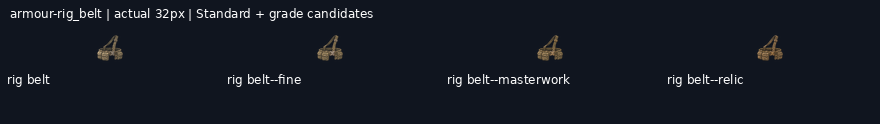
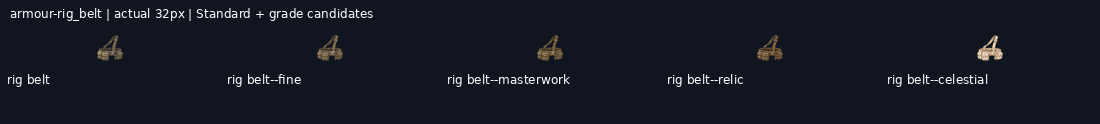
art: draw armour-rig_belt--celestial grade candidate

diff --git a/art/_archive/gear/2026-11-19-kept-blade-grades/HANDOFF.md b/art/_archive/gear/2026-11-19-kept-blade-grades/HANDOFF.md
@@ -1,6 +1,6 @@
 # Gear grade candidates
 
-**164/208 grade candidates delivered** on `art/2026-11-19-kept-blade-grades`. Shared mailbox: https://github.com/leonpentastorm/Project-Heaven-Cry/issues/3 . See claim.json for this lane’s current Standards. Released overlapping blades reuse12 peer candidates, with3 local alternatives archived.
+**165/208 grade candidates delivered** on `art/2026-11-19-kept-blade-grades`. Shared mailbox: https://github.com/leonpentastorm/Project-Heaven-Cry/issues/3 . See claim.json for this lane’s current Standards. Released overlapping blades reuse12 peer candidates, with3 local alternatives archived.
 
 Leon requested continuous candidate production; proof approval is not fabricated. All candidates remain review-candidate, production_approved:false, implementation_ready:false, with outline.review_required:true. Exact outline is measured, never asserted unless the masks match. Per-image registration is uniform scaling/translation only, without warp, silhouette masks, filled pixels or code-drawn substitutes. The generated native remains untouched.
 
@@ -10,12 +10,12 @@ Tomorrow: fetch this branch and develop safely, read the latest issue 3 comments
 
 Peer audit: [coordination/peer-audit-2026-11-19.md](coordination/peer-audit-2026-11-19.md). Peer58 masters/232 exports and12 canonical imports are integrated with versioned alpha<8 cleanup; originals are retained. See coordination/peer-import-v2/manifest.json and post-catalog VALIDATION.json (strict margins pass, solid alpha unchanged). Peer quota resets20 November2026 at09:45:39 Bangkok time; this does not establish this session’s quota.
 
-Remaining: weapon-ork_machete--masterwork, weapon-ork_machete--relic, weapon-ork_machete--celestial, weapon-war_axe--fine, weapon-war_axe--masterwork, weapon-war_axe--relic, weapon-war_axe--celestial, weapon-parlour_pistol--fine, weapon-parlour_pistol--masterwork, weapon-parlour_pistol--relic, weapon-parlour_pistol--celestial, weapon-lever_carbine--fine, weapon-lever_carbine--masterwork, weapon-lever_carbine--relic, weapon-lever_carbine--celestial, weapon-sawn_off--fine, weapon-sawn_off--masterwork, weapon-sawn_off--relic, weapon-sawn_off--celestial, weapon-coach_gun--fine, weapon-coach_gun--masterwork, weapon-coach_gun--relic, weapon-coach_gun--celestial, weapon-legion_bullpup--fine, weapon-legion_bullpup--masterwork, weapon-legion_bullpup--relic, weapon-legion_bullpup--celestial, weapon-whisper_smg--fine, weapon-whisper_smg--masterwork, weapon-whisper_smg--relic, weapon-whisper_smg--celestial, armour-rig_belt--celestial, armour-field_trousers--fine, armour-field_trousers--masterwork, armour-field_trousers--relic, armour-field_trousers--celestial, armour-tactical_gloves--fine, armour-tactical_gloves--masterwork, armour-tactical_gloves--relic, armour-tactical_gloves--celestial, armour-jump_boots--fine, armour-jump_boots--masterwork, armour-jump_boots--relic, armour-jump_boots--celestial.
+Remaining: weapon-ork_machete--masterwork, weapon-ork_machete--relic, weapon-ork_machete--celestial, weapon-war_axe--fine, weapon-war_axe--masterwork, weapon-war_axe--relic, weapon-war_axe--celestial, weapon-parlour_pistol--fine, weapon-parlour_pistol--masterwork, weapon-parlour_pistol--relic, weapon-parlour_pistol--celestial, weapon-lever_carbine--fine, weapon-lever_carbine--masterwork, weapon-lever_carbine--relic, weapon-lever_carbine--celestial, weapon-sawn_off--fine, weapon-sawn_off--masterwork, weapon-sawn_off--relic, weapon-sawn_off--celestial, weapon-coach_gun--fine, weapon-coach_gun--masterwork, weapon-coach_gun--relic, weapon-coach_gun--celestial, weapon-legion_bullpup--fine, weapon-legion_bullpup--masterwork, weapon-legion_bullpup--relic, weapon-legion_bullpup--celestial, weapon-whisper_smg--fine, weapon-whisper_smg--masterwork, weapon-whisper_smg--relic, weapon-whisper_smg--celestial, armour-field_trousers--fine, armour-field_trousers--masterwork, armour-field_trousers--relic, armour-field_trousers--celestial, armour-tactical_gloves--fine, armour-tactical_gloves--masterwork, armour-tactical_gloves--relic, armour-tactical_gloves--celestial, armour-jump_boots--fine, armour-jump_boots--masterwork, armour-jump_boots--relic, armour-jump_boots--celestial.
 
 Service-rejected requests (do not repeatedly resubmit): weapon-coach_gun--fine, weapon-legion_bullpup--fine, weapon-lever_carbine--fine, weapon-ork_machete--masterwork, weapon-parlour_pistol--fine, weapon-sawn_off--fine, weapon-war_axe--fine, weapon-whisper_smg--fine.
 
 Waiting on rejected prerequisites: weapon-coach_gun--celestial, weapon-coach_gun--masterwork, weapon-coach_gun--relic, weapon-legion_bullpup--celestial, weapon-legion_bullpup--masterwork, weapon-legion_bullpup--relic, weapon-lever_carbine--celestial, weapon-lever_carbine--masterwork, weapon-lever_carbine--relic, weapon-ork_machete--celestial, weapon-ork_machete--relic, weapon-parlour_pistol--celestial, weapon-parlour_pistol--masterwork, weapon-parlour_pistol--relic, weapon-sawn_off--celestial, weapon-sawn_off--masterwork, weapon-sawn_off--relic, weapon-war_axe--celestial, weapon-war_axe--masterwork, weapon-war_axe--relic, weapon-whisper_smg--celestial, weapon-whisper_smg--masterwork, weapon-whisper_smg--relic.
 
-Ready independent next steps, in queue order: armour-rig_belt--celestial, armour-field_trousers--fine, armour-tactical_gloves--fine, armour-jump_boots--fine. Other pending grades follow their preceding grade.
+Ready independent next steps, in queue order: armour-field_trousers--fine, armour-tactical_gloves--fine, armour-jump_boots--fine. Other pending grades follow their preceding grade.
 
 Runtime handoff: implementation_ready:false records review status but does not gate the web asset builder. The builder emits grade asset keys; the current UI gear resolver still needs grade-aware selection. Do not claim that runtime grade selection is implemented by these art deliveries.
